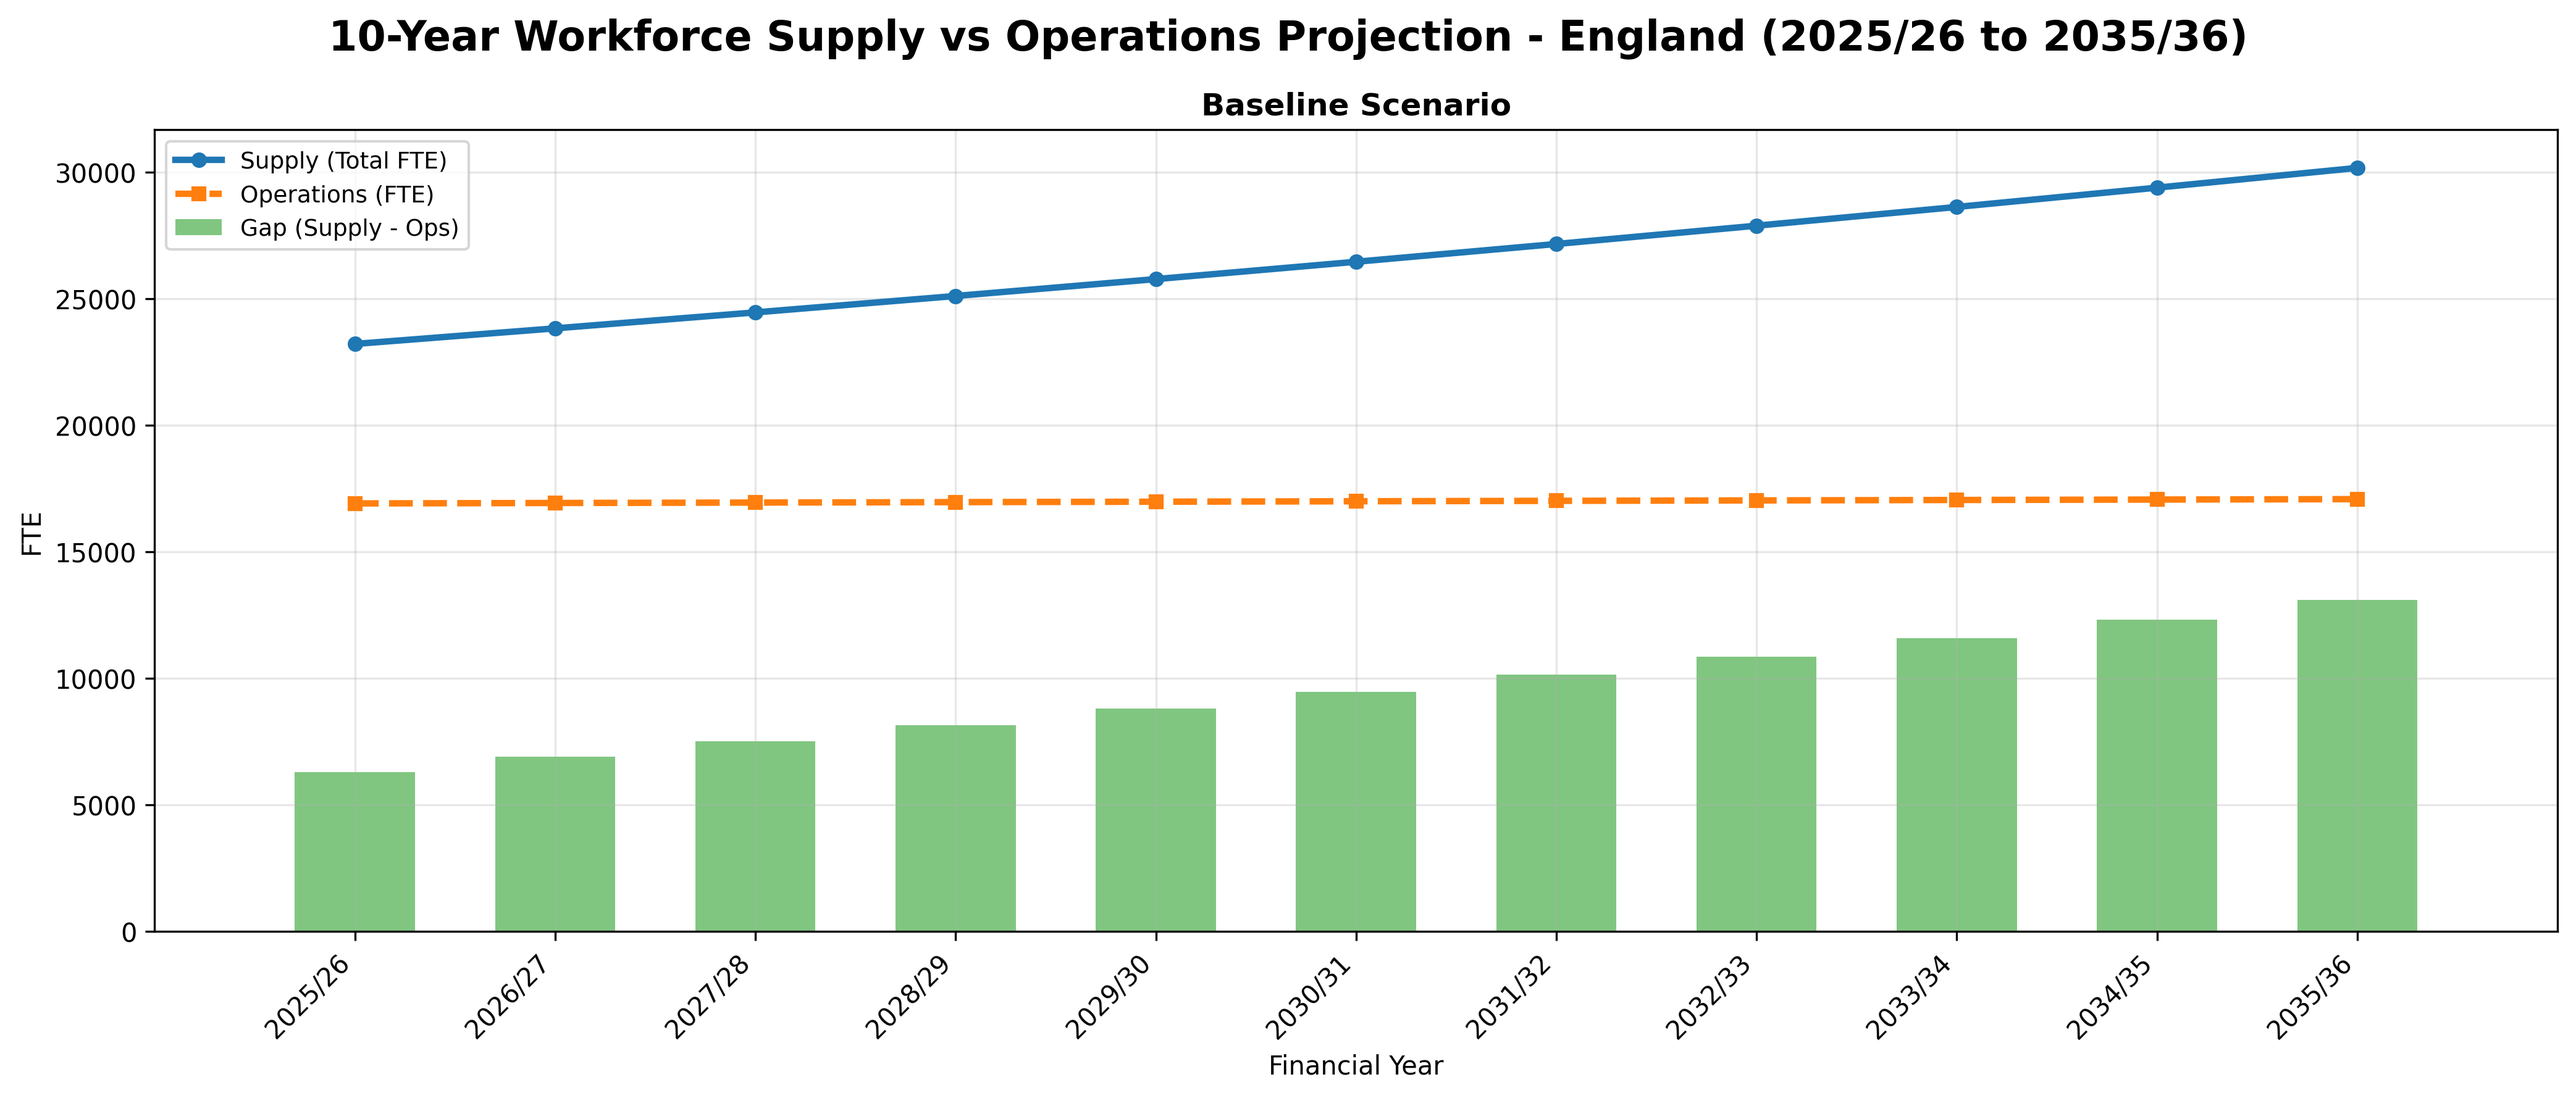
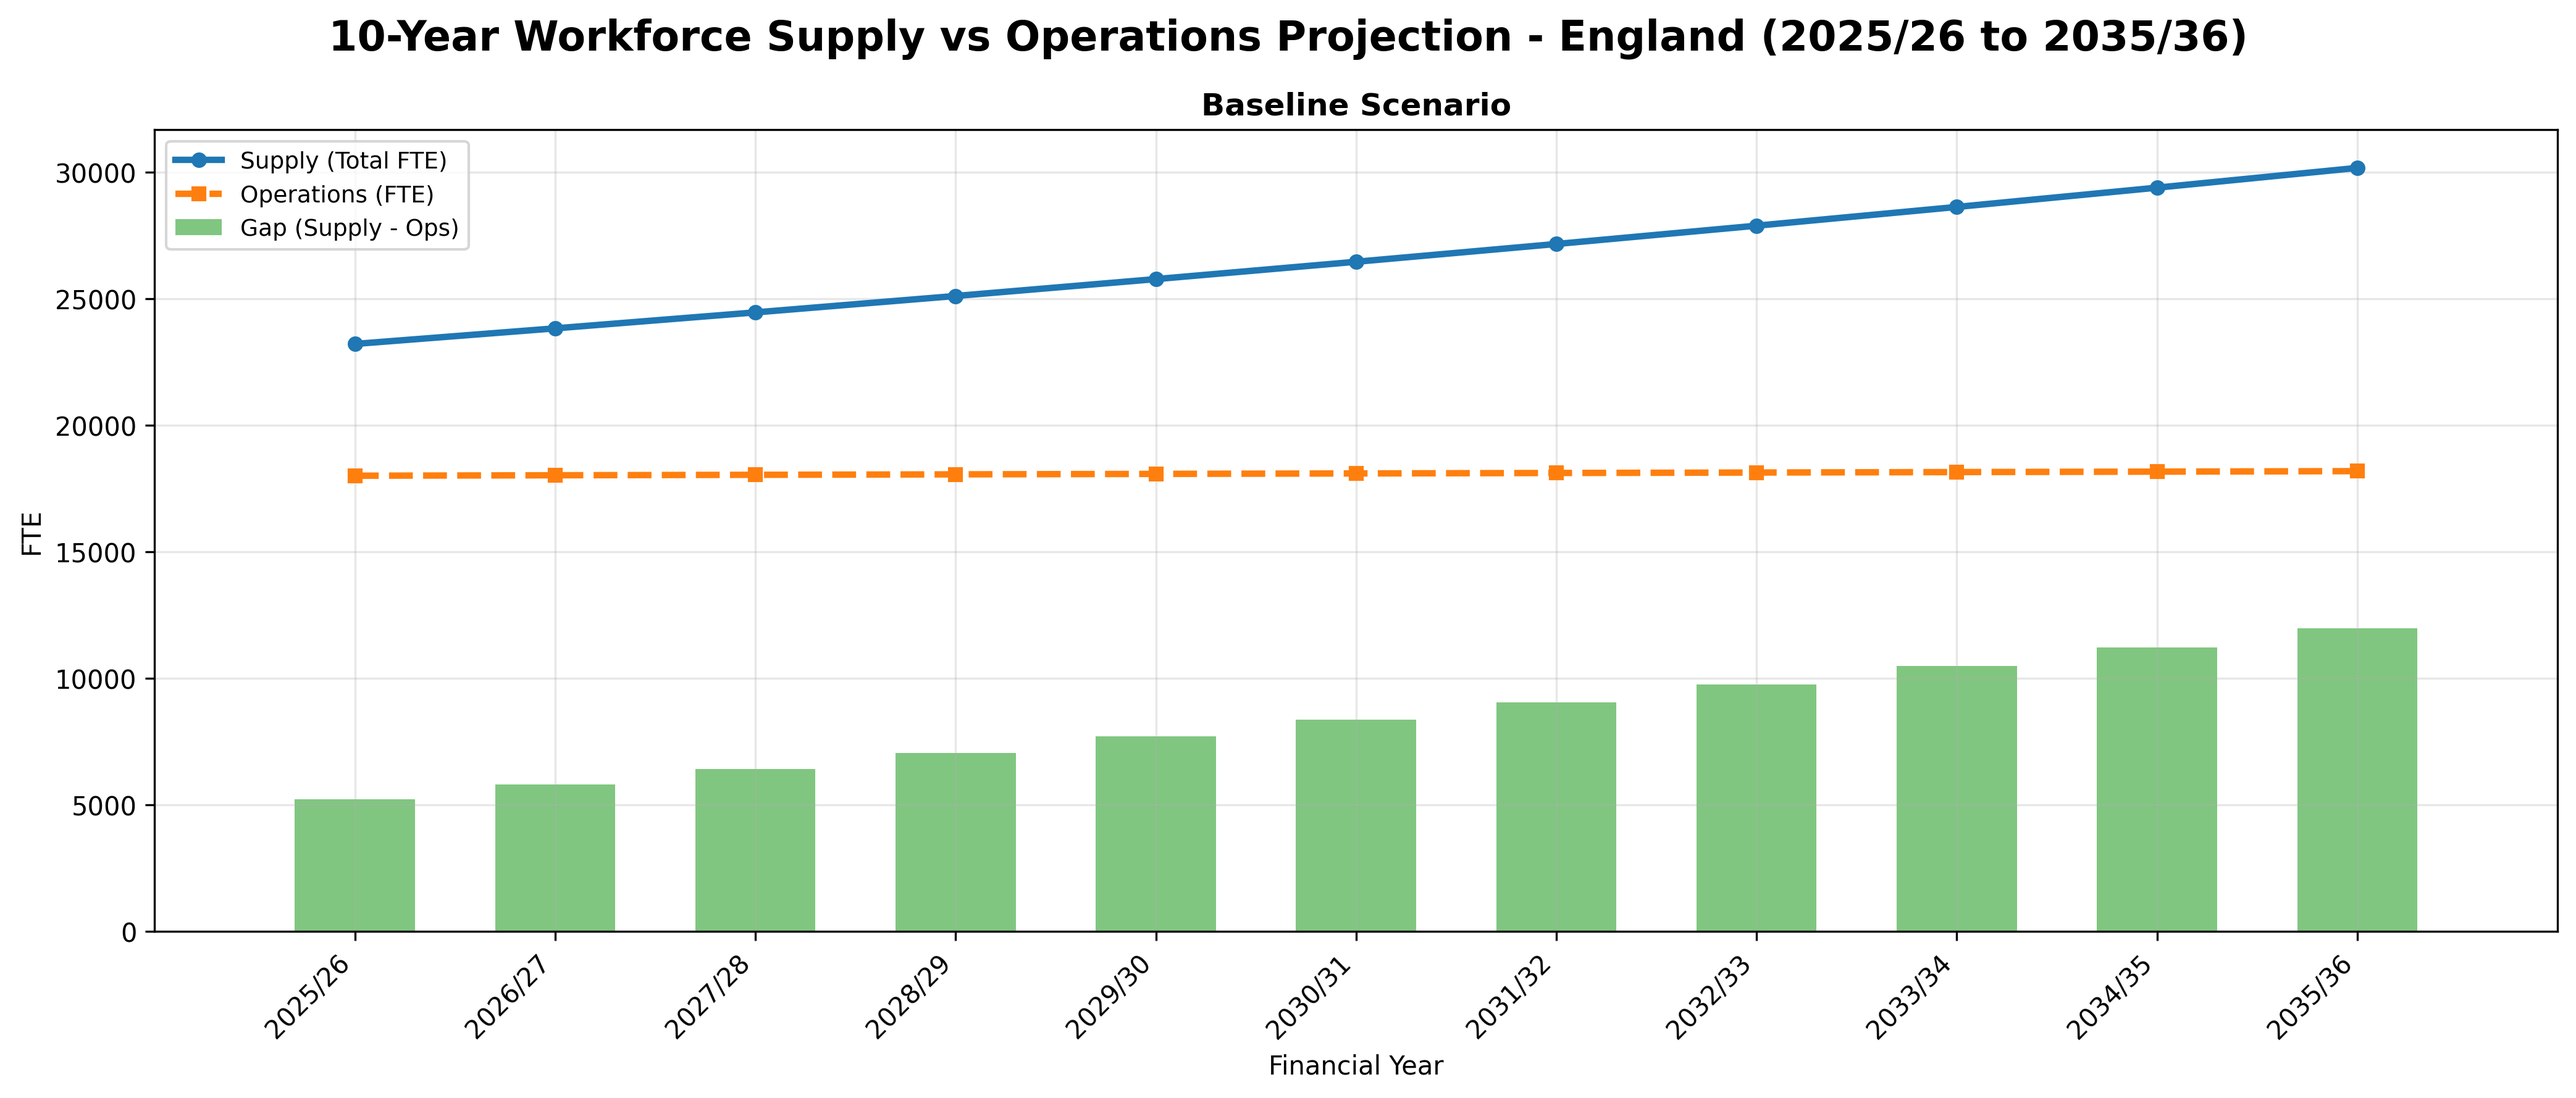
revise the utilisation rates

diff --git a/src/config.py b/src/config.py
@@ -23,8 +23,8 @@ DURATION = 10  # Number of years to project forward
 START_PROJECTION_YEAR = 2025  # Year to start projections from
 
 # Workforce utilisation rate
-# Accounts for time off per FTE: 27 days annual leave + 8 days bank holidays + 15 days training/sick leave
-UTILISATION_RATE = 0.8077
+# Accounts for time off per FTE: 27 days annual leave + 8 days bank holidays + 28 days training/sick leave
+UTILISATION_RATE = 0.7586
 
 # Standard FTE working hours per week
 FTE_WEEKLY_HOURS = 40
